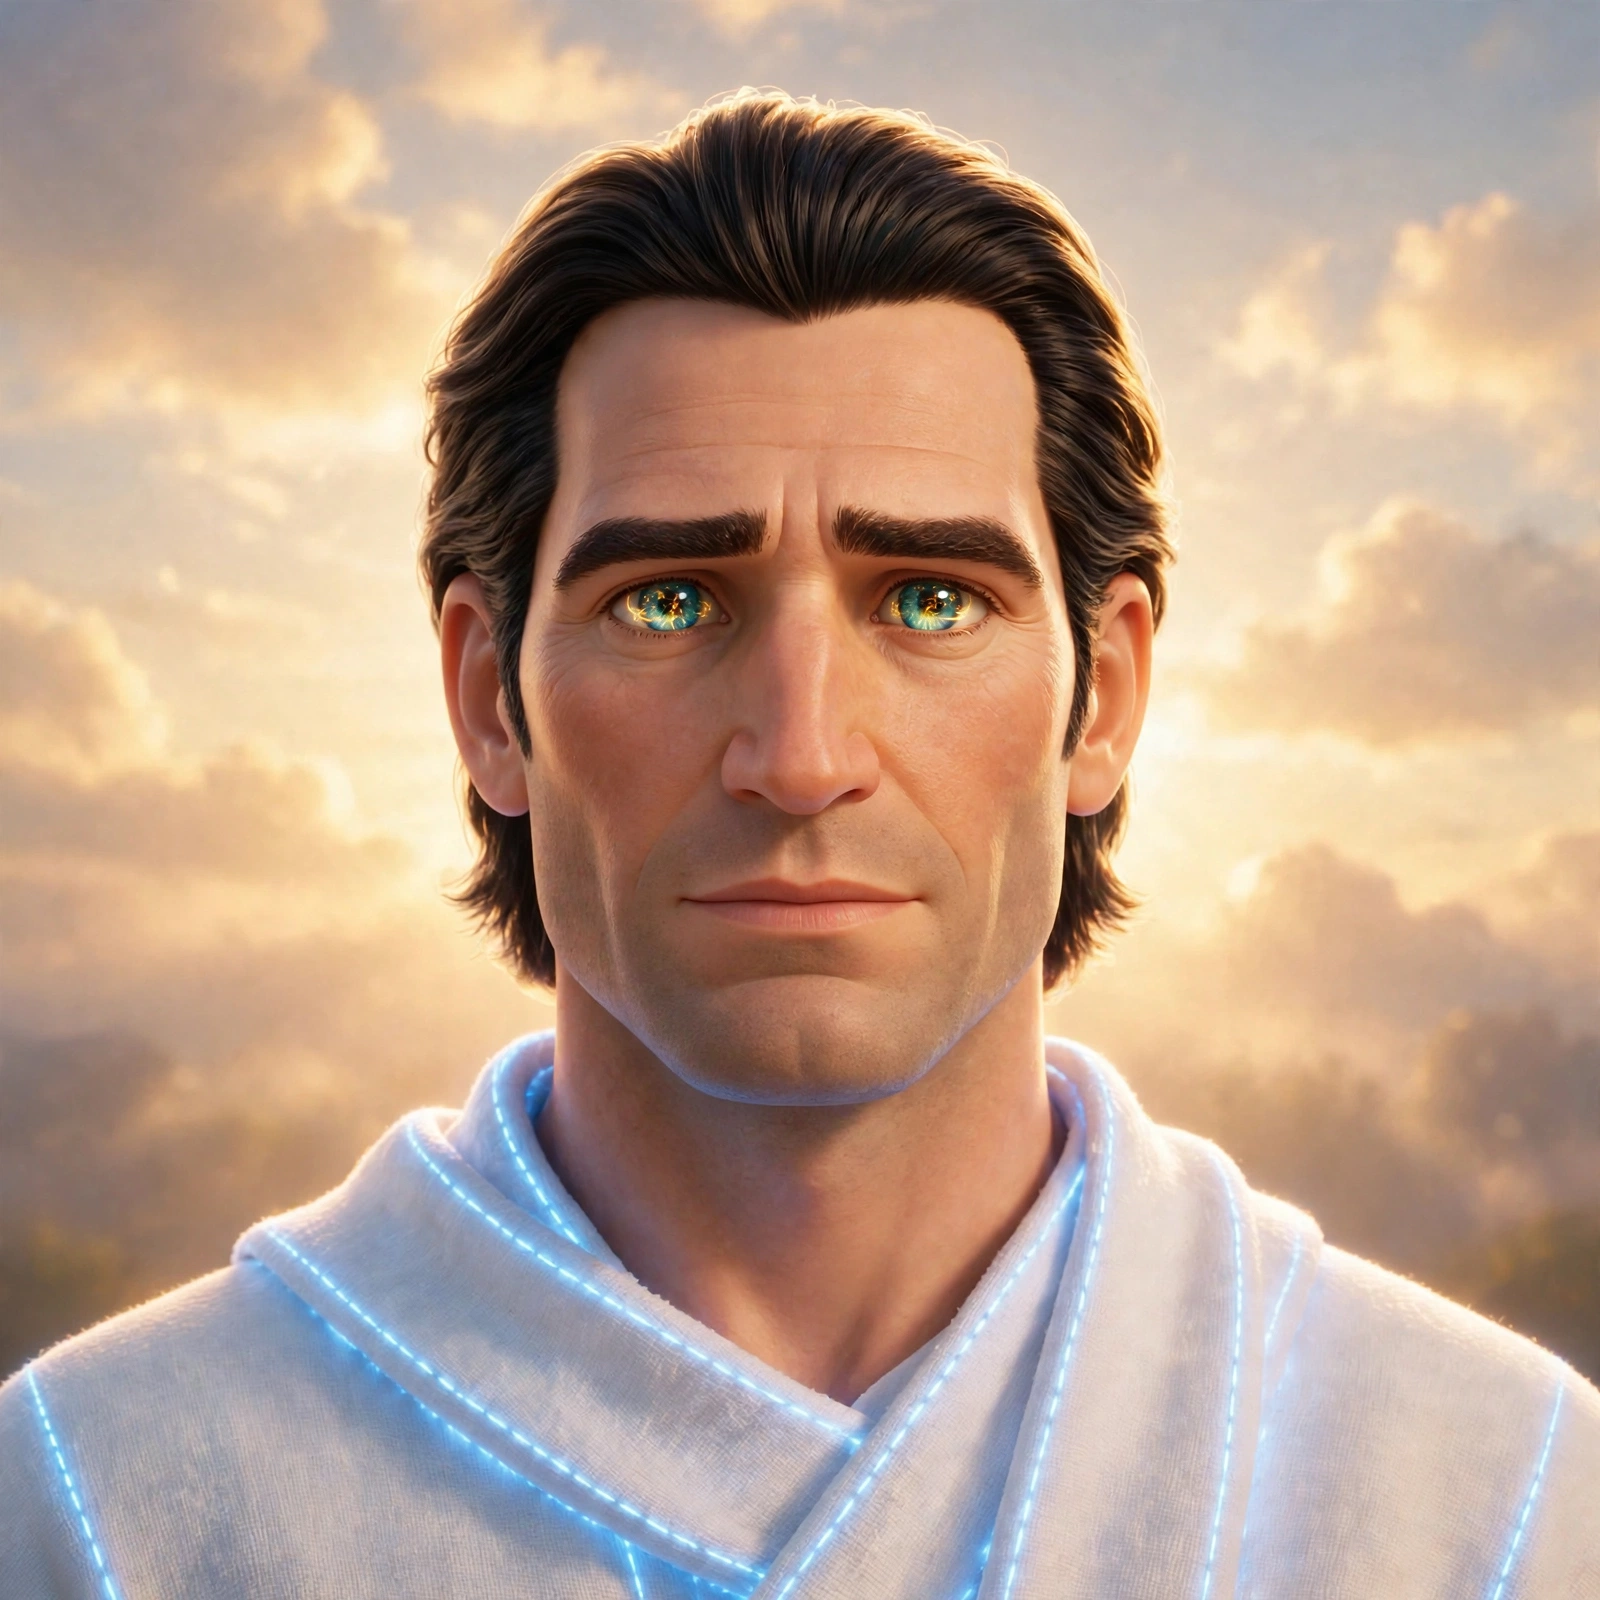
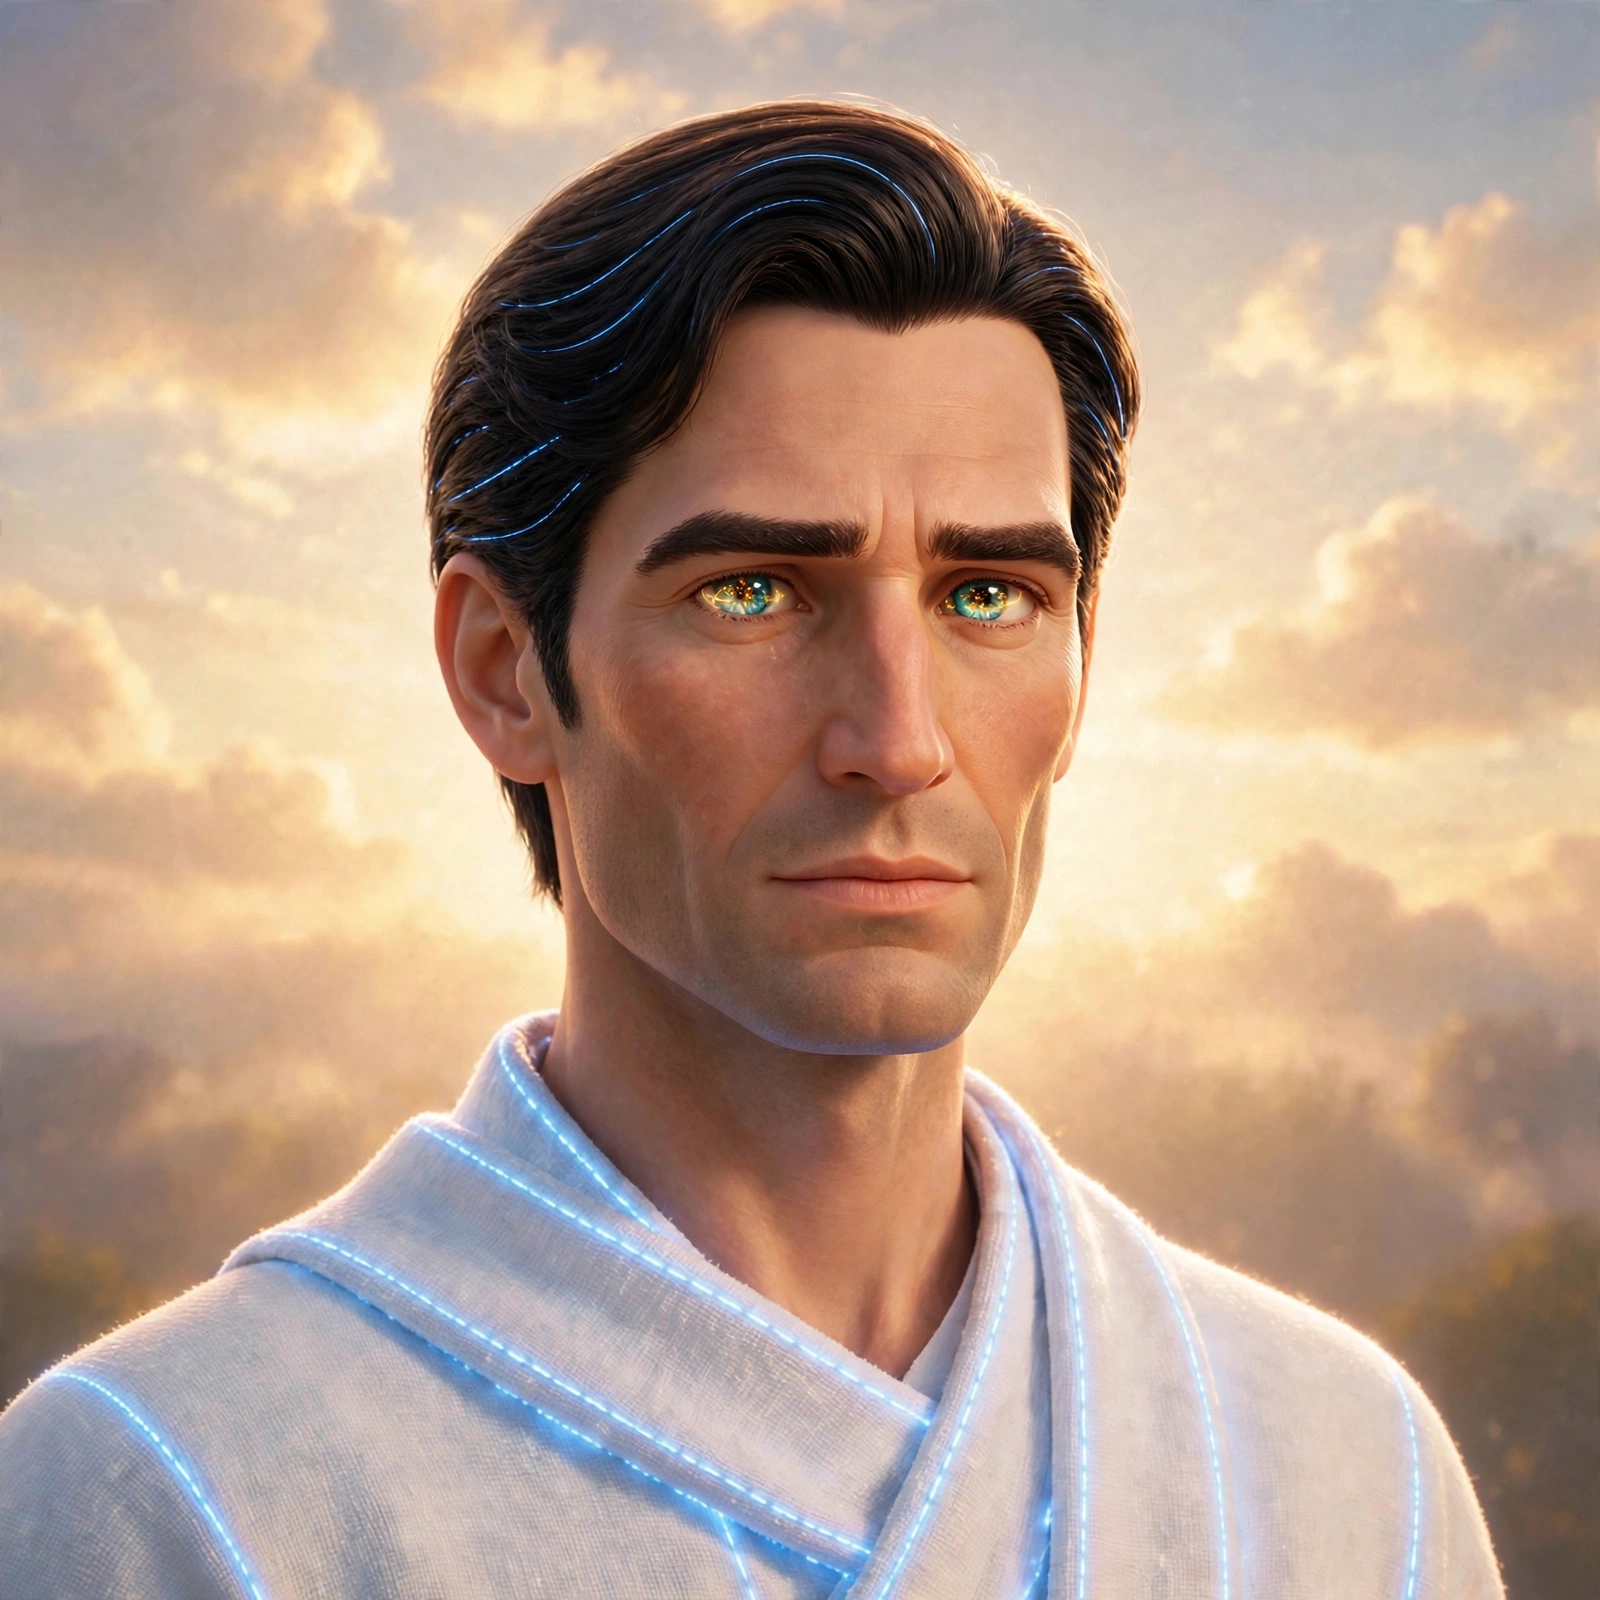
Crown the pair: Gabriel revised lean and regal, Michael rebuilt from family with the long mane — package at 50; tomb depiction kept with the etched cross painted out

diff --git a/cover-recreation/cast/INDEX.md b/cover-recreation/cast/INDEX.md
@@ -23,7 +23,7 @@
 
 ---
 
-## GROUP A — LOCKED (49)
+## GROUP A — LOCKED (50)
 
 | Figure | File | On the road ahead |
 |---|---|---|
@@ -70,7 +70,8 @@
 | Paul, awakened | `paul-awakened.jpg` | The Damascus-road face, newly awakened — Acts 9 (book done) |
 | Paul, the aged apostle | `paul.jpg` | **The workhorse of the road ahead**: 1 Corinthians through Philemon, the prison letters, the Pastorals. Crowned and used on the Romans cover |
 | Tertius | `tertius.jpg` | **Retro-locked Oct 30, 2026** — cropped from the crowned Romans v3 raw, where Jason had already crowned his face as part of the cover (see "What this prevents") |
-| Gabriel | `gabriel.png` | **Locked Oct 31, 2026** — the announcer (Daniel 8–9; Luke 1). The steel-and-flame design is his crowned form: luminous blue-green eyes with golden fire in the irises (Heb 1:7 — servants who are flames of fire), white robe bright like lightning with that same blue running along its thread seams (Matt 28:3; Luke 24:4). No wings — Scripture never gives him any. Build copy + full grading trail: `cover-recreation/cast-angels/` |
+| Gabriel | `gabriel.png` | **Locked Oct 31, 2026; plate revised the same evening on Jason's crown** — the announcer (Daniel 8–9; Luke 1). The steel-and-flame design is his crowned form: luminous blue-green eyes with golden fire in the irises (Heb 1:7 — servants who are flames of fire), white robe bright like lightning with that same blue running along its thread seams (Matt 28:3; Luke 24:4), and the order's charge shimmering faintly through his hair. The evening plate makes him **lean and regal** — finer build, neater hair — told from Michael at a glance. No wings — Scripture never gives him any. Build copy + full grading trail: `cover-recreation/cast-angels/` |
+| Michael | `michael.png` | **Locked Oct 31, 2026 (the new family build, crowned after the first steel-and-flame line was scrapped at Jason's word)** — the guardian and archangel (Daniel 10–12; Jude 9; Revelation 12). The same steel-and-flame order marks as Gabriel — fire inside steel-blue-green eyes, lightning robe with the blue stitched seams, the charge shimmering in his hair — on the broader, heavier man, with the **long dark mane** as his silhouette. No wings. Build copy + full grading trail: `cover-recreation/cast-angels/` |
 | Grandpa Teddy | `teddy.webp` | Our narrator and host — not a Bible figure. Available if Jason ever wants a Teddy-framed cover (e.g. a wisdom book); his call, never assumed |
 
 ---
@@ -83,4 +84,3 @@
 | Apollos | `cover-recreation/cast-1cor/apollos.png` (graduation copy: `public/images/characters/apollos.png`) | LOCKED — crowned Oct 31, 2026 | books/1-corinthians.md |
 | Priscilla | `cover-recreation/cast-1cor/priscilla.png` (graduation copy: `public/images/characters/priscilla.png`) | LOCKED — crowned Oct 31, 2026 | books/1-corinthians.md |
 | Aquila | `cover-recreation/cast-1cor/aquila.png` (graduation copy: `public/images/characters/aquila.png`) | LOCKED — crowned Oct 31, 2026 | books/1-corinthians.md |
-| Michael | candidates: `cover-recreation/cast-angels/michael-door1-v1.png` (hand-lit) · `cover-recreation/cast-angels/michael-threshold.png` (new creation) | AWAITING CROWN — two ways shown to Jason Oct 31, 2026; the steel-and-flame treatment must match Gabriel's (same order of being). Build trail: `cover-recreation/cast-angels/GRADE.md` | — |

diff --git a/cover-recreation/cast-angels/GRADE.md b/cover-recreation/cast-angels/GRADE.md
@@ -76,3 +76,15 @@ images is approved if it makes them better.
   retried (house rule + service decision). Michael stands on michael-fireeyes-v2.png.
   Doors offered to Jason: (1) hand-composited blue seam-glow on his current portrait
   (local work, no generation), (2) a genuinely different composition for Michael on his word.
+
+---
+
+## THE SETTLEMENT (Oct 31, 2026, evening — Jason's crowns)
+
+- **The first steel-and-flame Michael line was SCRAPPED at Jason's word** ("scrap that picture altogether — we're not going to try and fix it"). Its fire would not stay inside the eyes under pixel repair: strict-ember passes (v3, v5, v6) cleaned without wounding but never fully; broad desaturation blotched (v2, v4 — discarded); a full-zone cleanup melted the face (v7 — discarded); one generative clean drained the target eye's fire and plumed the other (banked, unused). Lesson kept: some defects are birth defects — rebuild from family, don't patch.
+- **The new Michael was built from Gabriel's crowned portrait** (Gate 9 seed = family by construction), same concept briefed with the default-killer first: fire INSIDE the irises only, no sparks outside the eyeballs. Landed first try with clean skin. Jason: "I like the Michael."
+- **Hair, Jason's direction across the evening:** Michael's slicked hair brought back out (fuller waves) → the blue charge shimmer added (Jason asked Judah's yes/no; Judah: yes as a shimmer, never as dyed hair) → mane past the shoulders → jaw-length trim → **final: the LONG MANE restored** as Michael's silhouette against Gabriel, when Jason saw the pair reading as almost the same fella.
+- **Gabriel revised for contrast, on Jason's crown:** leaner, less muscular — "lean and regal" — hair a little neater; the shimmer added to match. The revised plate REPLACED his morning plate in the package the same evening.
+- **ORDER MARKS (design law, final form):** steel blue-green eyes with golden fire inside the irises only · robes bright like lightning with the vivid blue along the thread seams · the faint electric-blue charge shimmering through the hair · no wings · faces registry-only; in scenes they stand faceless in their seats (Gabriel announcing, Michael guarding).
+- **CROWNED + LOCKED:** Gabriel (revised plate) `public/images/characters/gabriel.png` · Michael (mane) `public/images/characters/michael.png` — package = **50**. Sheets deepened the same night (Daniel in full for both; Michael #40 registered).
+- **THE TOMB (first scene depiction, crowned set):** `angels-at-the-tomb-CROWNED.png` — Gabriel seated at the head of the slab (John 20:12's seat), folded cloths, Michael guarding the entrance, stone rolled away, both from behind. **Jason's canon rule born here: a cross painted or carved into a scene where it does not belong is painted out of any canon picture we keep** — the generator's etched cross on the tomb wall was painted out before the picture was kept.
